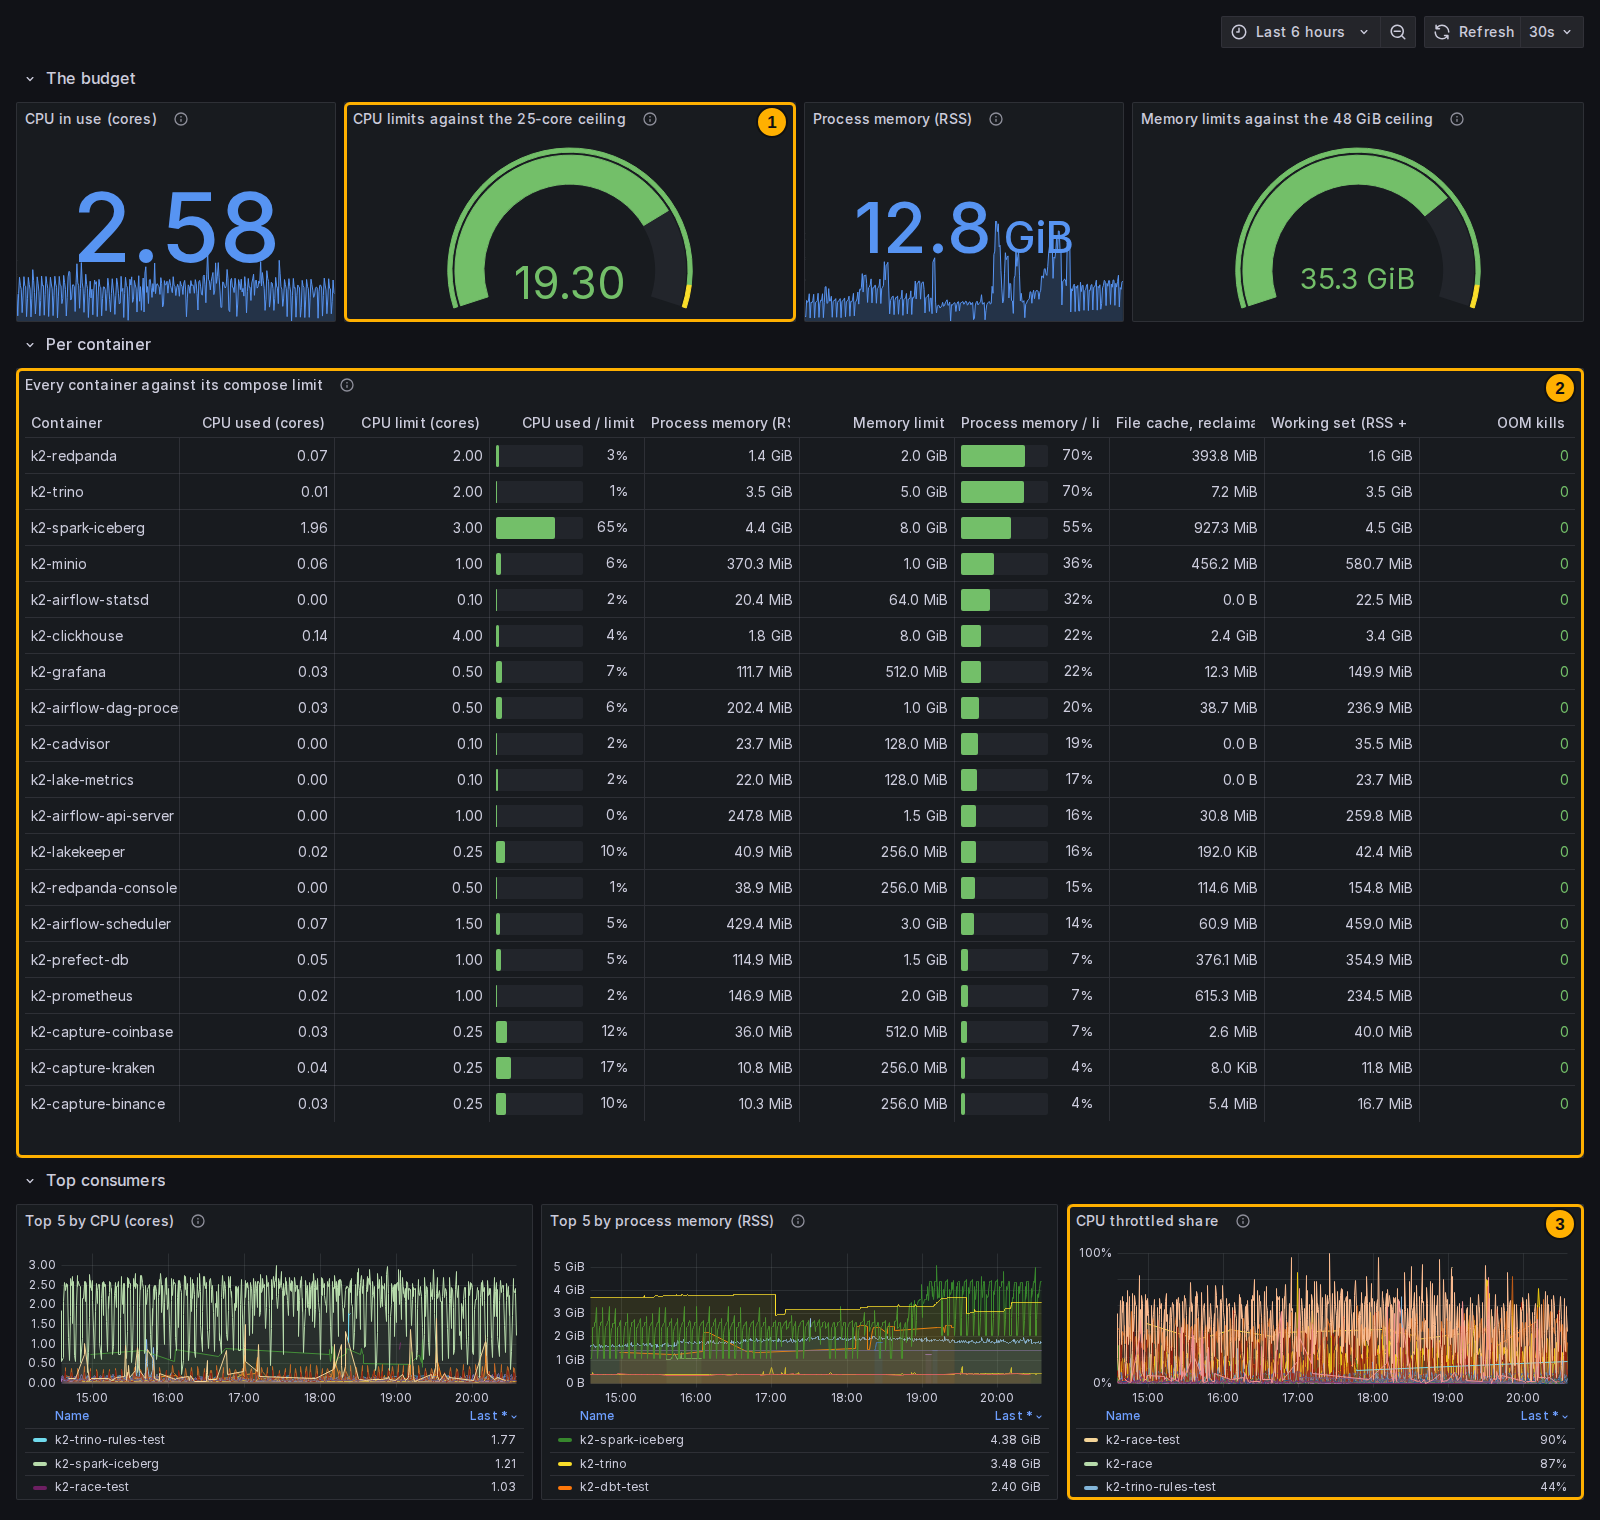
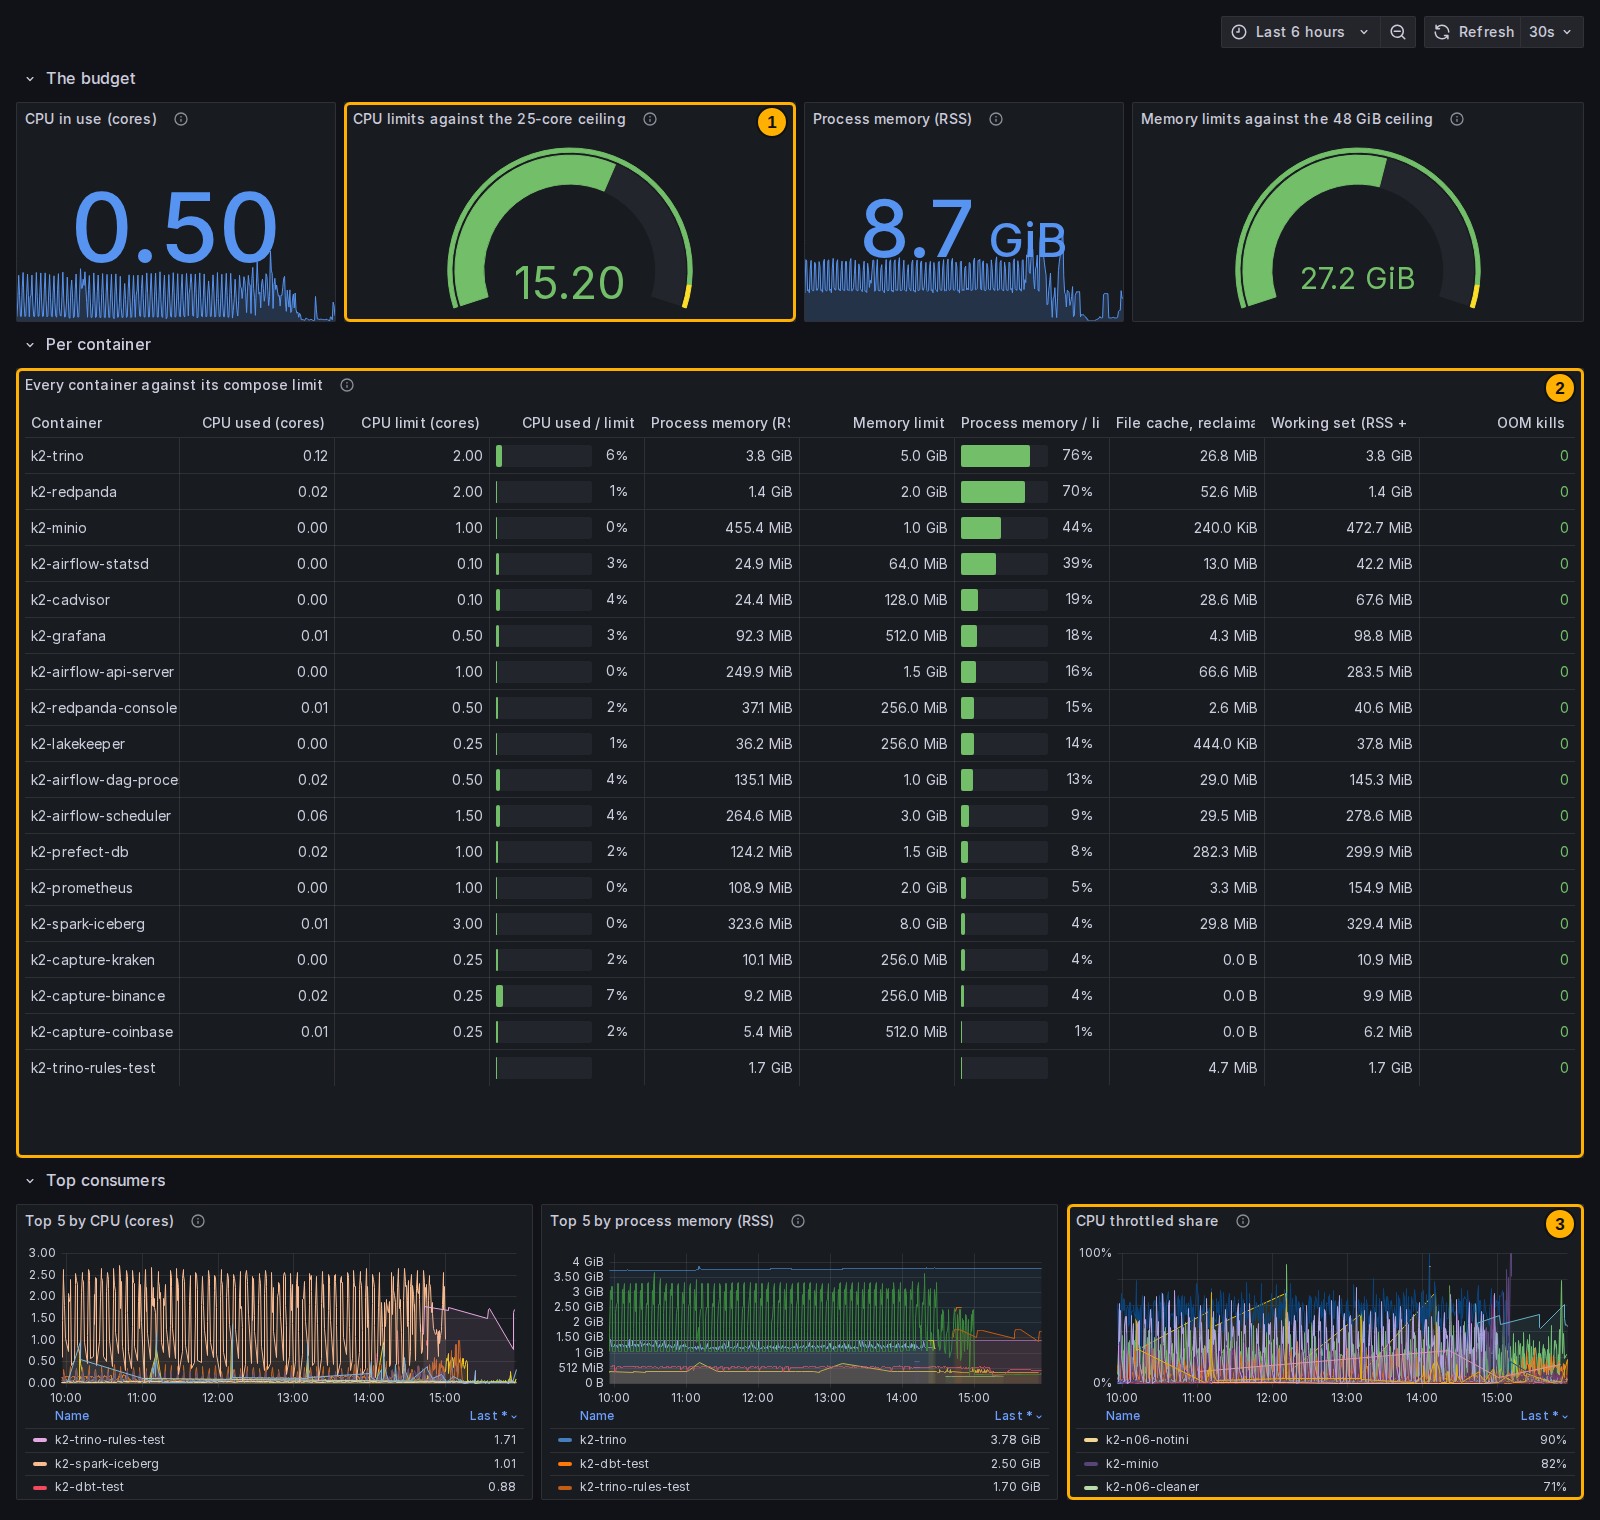
docs(screenshots): the consoles and dashboards recaptured after the retirement

diff --git a/scripts/screenshots/shots.py b/scripts/screenshots/shots.py
@@ -59,6 +59,8 @@ SHOTS = [
         file="02-capture.png", section="Capture", title="K2 Capture (v3)",
         url="http://localhost:3000/d/k2-l2-capture", app="grafana", height=1060,
         ready=panel("Capture Process Up"),
+        # Books are paused (ADR-050): no checksum is computed, so the counter has no series.
+        no_data=["Checksum Failures (1h)"],
         read="Per venue: is the process up, seconds since its last frame, and any reconnects, sequence "
              "gaps, checksum failures or resyncs in the last hour. Below, frames and bytes per second, "
              "and records produced against records the broker acknowledged: a gap between those two "
@@ -90,7 +92,7 @@ SHOTS = [
     dict(
         file="07-minio-lake-bucket.png", section="Lake", title="MinIO: the k2-lake bucket",
         url="http://localhost:9001/browser/k2-lake", app="minio", height=800,
-        ready="text=warehouse",
+        ready="text=k2-lake",   # the bucket is empty until phase 002 writes the first table
         read="The object store under the lake: bucket k2-lake, its size and object count. Every Iceberg "
              "data and metadata file of every warehouse sits in it. The old pipeline's tables were "
              "dropped after a verified copy (`make drop`): no live crypto data lands here until "

diff --git a/docs/operations/dashboards.md b/docs/operations/dashboards.md
@@ -18,7 +18,7 @@ markers are named under each image.
 
 ![K2 Pipeline Overview](../images/dashboards/01-pipeline-overview.png)
 
-*Captured 2026-11-25 at `v3-phase-e-69-g27eb1c5`.* **1** every scrape target, up or down. **2** trade records each venue's capture produced per second. **3** bytes per second Redpanda accepts from the captures. **4** CPU each pipeline container uses, from cAdvisor.
+*Captured 2026-11-26 at `v3.0.0-alpha.1-58-g3d8495b`.* **1** every scrape target, up or down. **2** trade records each venue's capture produced per second. **3** bytes per second Redpanda accepts from the captures. **4** CPU each pipeline container uses, from cAdvisor.
 
 The page to open first. All tiles green and moving lines say capture and the bus are live; the Resources row says what that costs. A line gone flat says which of the pages below to open next.
 
@@ -34,7 +34,7 @@ which venues those are.
 
 ![K2 Capture (v3)](../images/dashboards/02-capture.png)
 
-*Captured 2026-11-25 at `v3-phase-e-69-g27eb1c5`.*
+*Captured 2026-11-26 at `v3.0.0-alpha.1-58-g3d8495b-dirty`.*
 
 Per venue: is the process up, seconds since its last frame, and any reconnects, sequence gaps, checksum failures or resyncs in the last hour. Below, frames and bytes per second, and records produced against records the broker acknowledged: a gap between those two lines is records that never reached Redpanda.
 
@@ -46,7 +46,7 @@ Open: <http://localhost:3000/d/k2-l2-capture>. Leads to: [capture-feed-stale.md]
 
 ![Redpanda Console: topics](../images/dashboards/03-redpanda-topics.png)
 
-*Captured 2026-11-25 at `v3-phase-e-69-g27eb1c5`.*
+*Captured 2026-11-26 at `v3.0.0-alpha.1-58-g3d8495b`.*
 
 Every v3 topic, raw, trades and book for each venue, with its partitions and the bytes it holds. Nothing consumes them while the old lake ingest is retired and ClickHouse is paused; phase 004's connector reads raw again. Console has no dark theme, so this one is light.
 
@@ -56,7 +56,9 @@ Open: <http://localhost:8080/topics>. Leads to: [redpanda.md](../runbooks/redpan
 
 ### Spark History Server
 
-*No image: the last `make screenshots` did not capture this page.*
+![Spark History Server](../images/dashboards/05-spark-history.png)
+
+*Captured 2026-11-26 at `v3.0.0-alpha.1-58-g3d8495b`.*
 
 The Spark container's finished jobs, newest first, each a local-mode driver started in it by `docker exec`. Open one for its stages, which is where a failed one is read after the fact. Its event-log cleaner keeps two days. No job runs while the old lake ingest is retired. Spark's UI has no dark theme.
 
@@ -66,7 +68,7 @@ Open: <http://localhost:18080>. Leads to: [upgrade-a-pinned-component.md](../run
 
 ![MinIO: the k2-lake bucket](../images/dashboards/07-minio-lake-bucket.png)
 
-*Captured 2026-11-25 at `v3-phase-e-69-g27eb1c5`.*
+*Captured 2026-11-26 at `v3.0.0-alpha.1-58-g3d8495b-dirty`.*
 
 The object store under the lake: bucket k2-lake, its size and object count. Every Iceberg data and metadata file of every warehouse sits in it. The old pipeline's tables were dropped after a verified copy (`make drop`): no live crypto data lands here until phase 004.
 
@@ -78,7 +80,7 @@ Open: <http://localhost:9001/browser/k2-lake>. Leads to: [lake-backup-and-restor
 
 ![K2 Airflow](../images/dashboards/13-airflow-dashboard.png)
 
-*Captured 2026-11-25 at `v3-phase-e-69-g27eb1c5`.*
+*Captured 2026-11-26 at `v3.0.0-alpha.1-58-g3d8495b`.*
 
 Run duration and lateness per DAG, task failures and skips, scheduler heartbeat and DAG parse time, from Airflow's statsd metrics. The two Airflow alerts read these series. Until phase 002 adds the first product DAG only the heartbeat and the parse loop move; the other panels read "No data".
 
@@ -90,7 +92,7 @@ Open: <http://localhost:3000/d/k2-airflow>. Leads to: [airflow-scheduling.md](..
 
 ![Prometheus: alerts](../images/dashboards/14-prometheus-alerts.png)
 
-*Captured 2026-11-25 at `v3-phase-e-69-g27eb1c5`.*
+*Captured 2026-11-26 at `v3.0.0-alpha.1-58-g3d8495b`.*
 
 Every alert rule, grouped by file, with its state. There is no Alertmanager: this page and Grafana are where a firing alert is seen, and each rule's annotations name its runbook.
 
@@ -100,7 +102,7 @@ Open: <http://localhost:9090/alerts>. Leads to: [README.md](../runbooks/README.m
 
 ![Prometheus: targets](../images/dashboards/15-prometheus-targets.png)
 
-*Captured 2026-11-25 at `v3-phase-e-69-g27eb1c5`.*
+*Captured 2026-11-26 at `v3.0.0-alpha.1-58-g3d8495b`.*
 
 Every scrape job and whether its last scrape succeeded. A capture target down here is the input CaptureDown fires on.
 
@@ -112,7 +114,7 @@ Open: <http://localhost:9090/targets>. Leads to: [failure-recovery.md](../runboo
 
 ![K2 Resources](../images/dashboards/16-resources.png)
 
-*Captured 2026-11-25 at `v3-phase-e-69-g27eb1c5`.* **1** declared CPU limits of the running containers, against ADR-045's ceiling. **2** each container's CPU and memory against the limit read from its cgroup. **3** containers their CPU limit is holding back.
+*Captured 2026-11-26 at `v3.0.0-alpha.1-58-g3d8495b`.* **1** declared CPU limits of the running containers, against ADR-045's ceiling. **2** each container's CPU and memory against the limit read from its cgroup. **3** containers their CPU limit is holding back.
 
 What the stack uses against what it declares. Limits are read from each container's cgroup by cAdvisor, so the table follows docker-compose.yml with no edit here. Sustained throttling, or memory near its limit, is a limit to raise, inside the budget that `python3 scripts/check-budget.py` gates.
 
